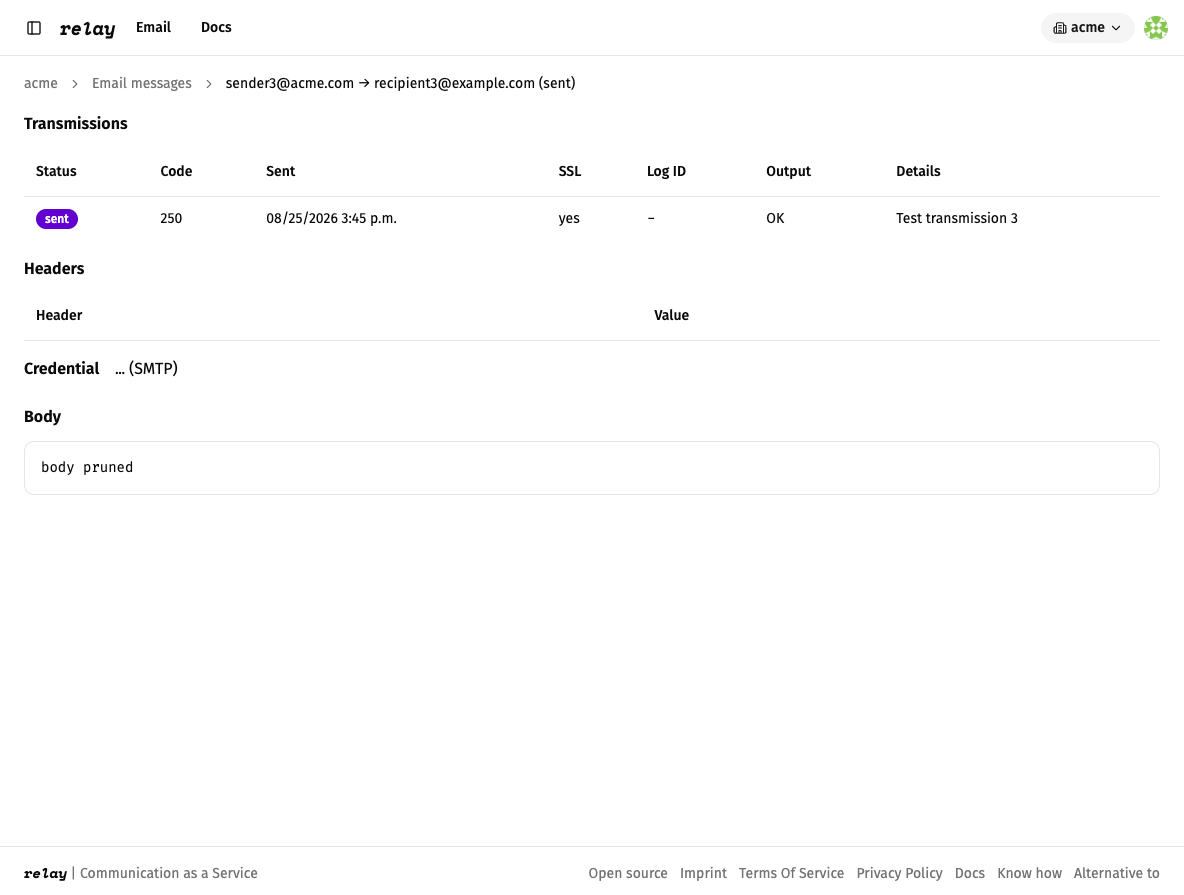
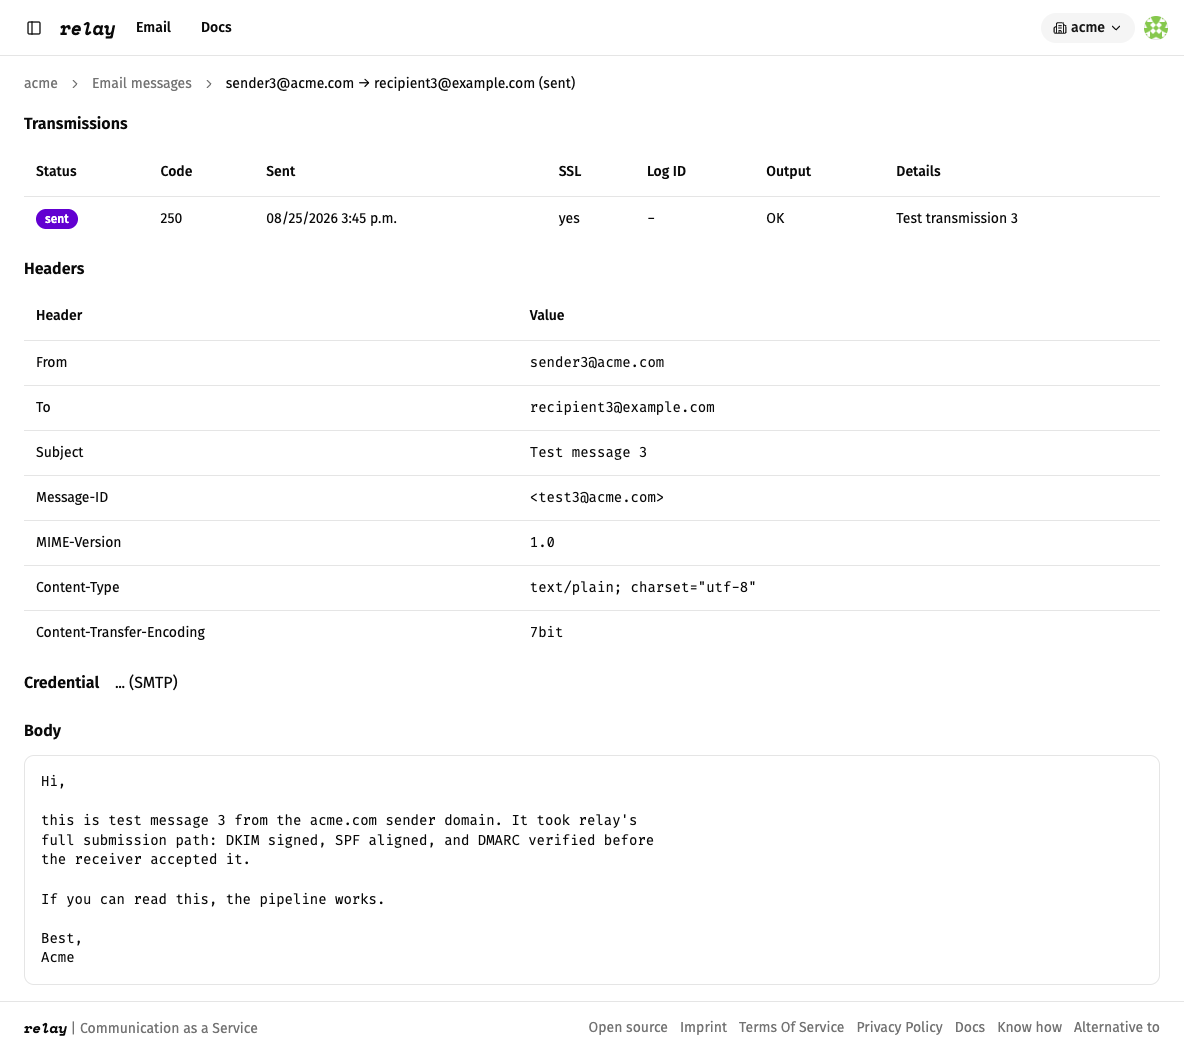
Show full message detail on homepage screenshot
The detail screenshot now shows the sent test message end to end: the
transmission log (250 OK over TLS), all parsed headers, the SMTP
credential, and the raw body. Recreate the message raw body file the
fixture references and update alt text and caption accordingly.

diff --git a/root/templates/start.html b/root/templates/start.html
@@ -203,14 +203,14 @@
             </div>
             <img
               src="{% static 'img/email-detail.png' %}"
-              alt="relay message detail with transmission log and SMTP response codes"
+              alt="relay message detail with transmission log, headers, and email body"
               loading="lazy"
               class="block w-full h-auto"
             >
           </div>
           <figcaption class="text-sm text-muted-foreground text-center m-0">
             {% blocktranslate trimmed %}
-              Down to the last SMTP code and webhook response.
+              One message, end to end: transmission codes, headers, and body.
             {% endblocktranslate %}
           </figcaption>
         </figure>
